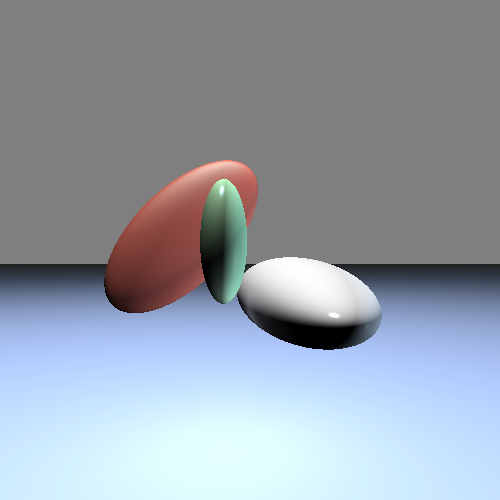
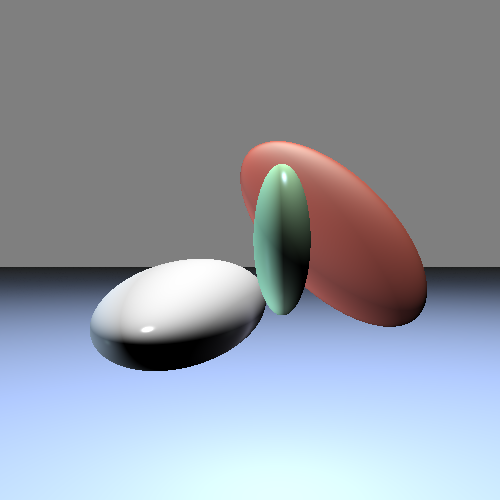
yeeessssss

Changed region(s): [[0.0, 0.27, 1.0, 0.75]]

diff --git a/RayTracing/src/Scene/Camera.java b/RayTracing/src/Scene/Camera.java
@@ -25,7 +25,7 @@ public class Camera
 	private Vector3 towards;
 	private Vector3 right;
 	private Vector3 up;
-	private Matrix4 m;
+	//private Matrix4 m;
 	
 	private Vector3 p1;
 	
@@ -81,30 +81,30 @@ public class Camera
 	
 	public void calcTransMatrix()
 	{
-		m = new Matrix4();
+		//m = new Matrix4();
 		
 		towards = lookAtPosition.sub(position);
 		towards.normal();
 		
-		right = towards.crossProduct(upVector);
+		right = towards.crossProduct(upVector).mul(-1);
 		right.normal();
 		
-		up = towards.crossProduct(right);//.mul(-1));
+		up = towards.crossProduct(right).mul(-1);
 		up.normal();
 		
-		m.setRow(0, towards.getX(), towards.getY(), towards.getZ(), (double)0.0);
-		m.setRow(1, right.getX(), right.getY(), right.getZ(), (double)0.0);
-		m.setRow(2, up.getX(), up.getY(), up.getZ(), (double)0.0);
-		m.setRow(3, (double)0.0, (double)0.0, (double)0.0, (double)1.0);
+		//m.setRow(0, towards.getX(), towards.getY(), towards.getZ(), (double)0.0);
+		//m.setRow(1, right.getX(), right.getY(), right.getZ(), (double)0.0);
+		//m.setRow(2, up.getX(), up.getY(), up.getZ(), (double)0.0);
+		//m.setRow(3, (double)0.0, (double)0.0, (double)0.0, (double)1.0);
 		
-		Matrix4 newMat = new Matrix4();
+		//Matrix4 newMat = new Matrix4();
 		
-		newMat.setRow(0, (double)1.0, (double)0.0, (double)0.0, (-1) * (double)position.getX());
-		newMat.setRow(1, (double)0.0, (double)1.0, (double)0.0, (-1) * (double)position.getY());
-		newMat.setRow(2, (double)0.0, (double)0.0, (double)1.0, (-1) * (double)position.getZ());
-		newMat.setRow(3, (double)0.0, (double)0.0, (double)0.0, (double)1.0);
+		//newMat.setRow(0, (double)1.0, (double)0.0, (double)0.0, (-1) * (double)position.getX());
+		//newMat.setRow(1, (double)0.0, (double)1.0, (double)0.0, (-1) * (double)position.getY());
+		//newMat.setRow(2, (double)0.0, (double)0.0, (double)1.0, (-1) * (double)position.getZ());
+		//newMat.setRow(3, (double)0.0, (double)0.0, (double)0.0, (double)1.0);
 		
-		m.setMatrix(m.multiply(newMat).getMatrix());
+		//m.setMatrix(m.multiply(newMat).getMatrix());
 		
 		computeP1();
 	}
@@ -122,7 +122,7 @@ public class Camera
 	public double getTeta()
 	{
 		
-		return Math.tan((screenWidth/2) / screenDist);
+		return Math.atan((screenWidth/2) / screenDist);
 	}
 	
 	public Vector3 getP1()
@@ -130,10 +130,10 @@ public class Camera
 		return p1;
 	}
 	
-	public Matrix4 getM()
-	{
-		return m;
-	}
+	//public Matrix4 getM()
+	//{
+	//	return m;
+	//}
 	
 	public Vector3 getTowards()
 	{
